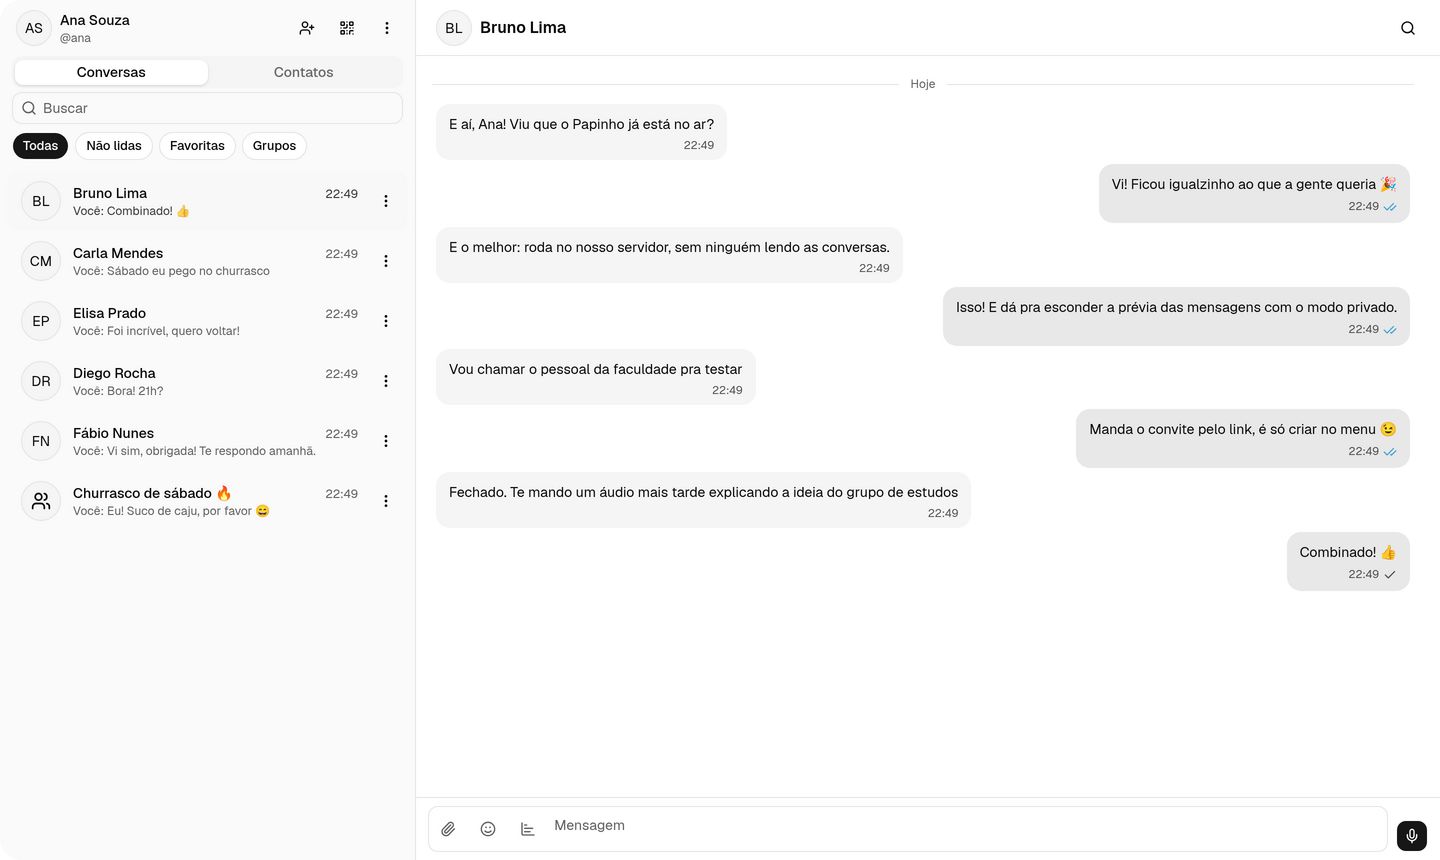
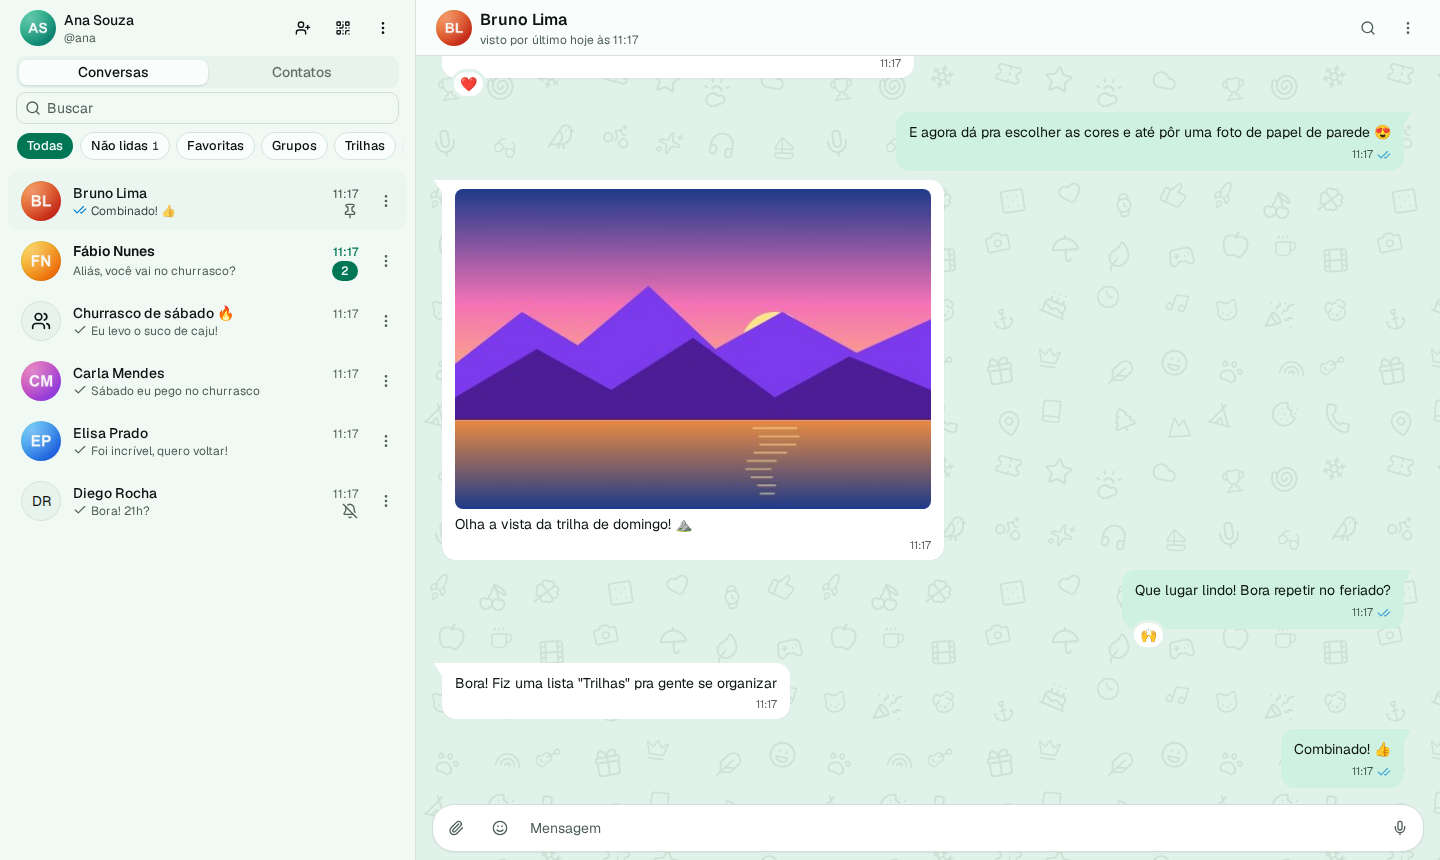
docs(readme): mostra o visual novo e as preferências de aparência
As capturas eram de antes das paletas, dos papéis de parede e da
conversa como a do WhatsApp. Todas foram refeitas de uma instância
local com pessoas fictícias (a imagem principal, as do computador e
as do celular), e entram três novas: a mesma conversa em quatro
paletas, a tela de Aparência e o menu de anexos.

O texto ganha os destaques "Com a cara do WhatsApp" e "Do seu jeito",
as listas criadas pela barra de filtros e a seção "Aparência,
digitação e atalhos", com a foto do papel de parede só no aparelho e
a tabela dos atalhos do WhatsApp Web.

diff --git a/README.md b/README.md
@@ -40,7 +40,9 @@
 | 🔒 **Privacidade aplicada no servidor** | Visto por último, online, foto, recado e confirmação de leitura com reciprocidade; ninguém burla pelo navegador. |
 | 🙈 **Modo privado e conversas trancadas** | Desfoque de mensagens, nomes e mídia (Alt+Shift+P), bloqueio de tela por PIN e conversas que só abrem com código. |
 | ⚡ **Tempo real e offline** | STOMP sobre WebSocket com sincronização por sequência; PWA instalável, conversas recentes offline e fila de envio. |
-| 👥 **Tudo de um mensageiro moderno** | Grupos com admins e convite por QR Code, transmissões, enquetes, figurinhas, temporárias, agendadas e visualização única. |
+| 💬 **Com a cara do WhatsApp** | Microfone dentro da caixa de texto, mensagem que voa até o lugar dela, reações, foto de quem fala no grupo, menu de anexos e os atalhos do WhatsApp Web. |
+| 🎨 **Do seu jeito** | Oito paletas de cor para o app inteiro, no claro e no escuro, e papel de parede com desenhos, cores, degradês ou uma foto sua (que não sai do aparelho). |
+| 👥 **Tudo de um mensageiro moderno** | Grupos com admins e convite por QR Code, transmissões, enquetes, figurinhas, temporárias, agendadas, visualização única e listas personalizadas. |
 | 🎙 **Áudio com transcrição** | Whisper no próprio navegador (o áudio não sai do aparelho) ou um provedor compatível com a API da OpenAI. |
 | 🔑 **Login sem senha** | Passkeys (WebAuthn), verificação em duas etapas (TOTP) com códigos de recuperação e sessão por cookie. |
 | 🔔 **Notificações push** | Web Push cifrado até o navegador, com opção de mostrar só "Nova mensagem". |
@@ -54,8 +56,15 @@
     <td width="50%"><img src="docs/images/desktop-dark.png" alt="Conversa no tema escuro"><p align="center"><sub>Tema escuro</sub></p></td>
   </tr>
   <tr>
+    <td width="50%"><img src="docs/images/grupo.png" alt="Conversa em grupo com a foto e o nome colorido de quem mandou e reações"><p align="center"><sub>Grupos: foto e nome de quem fala, reações</sub></p></td>
     <td width="50%"><img src="docs/images/modo-privado.png" alt="Modo privado desfocando mensagens e prévias"><p align="center"><sub>Modo privado: desfoca mensagens e prévias</sub></p></td>
-    <td width="50%"><img src="docs/images/grupo.png" alt="Conversa em grupo"><p align="center"><sub>Grupos</sub></p></td>
+  </tr>
+  <tr>
+    <td colspan="2"><img src="docs/images/temas.png" alt="A mesma conversa em quatro paletas e papéis de parede: Oceano, Lavanda, Coral e Rosa"><p align="center"><sub>Paletas de cor e papéis de parede, no claro e no escuro</sub></p></td>
+  </tr>
+  <tr>
+    <td width="50%"><img src="docs/images/aparencia.png" alt="Configurações de aparência com o tema, as cores do app e o papel de parede com prévia"><p align="center"><sub>Aparência: tema, cores do app e papel de parede</sub></p></td>
+    <td width="50%"><img src="docs/images/anexos.png" alt="Menu de anexos com documento, fotos e vídeos, câmera, áudio, enquete e figurinhas"><p align="center"><sub>Menu de anexos</sub></p></td>
   </tr>
 </table>
 
@@ -192,7 +201,8 @@ cada um). Em Configurações > Privacidade também ficam:
 
 Cada pessoa organiza a própria lista: arquivar (com "manter arquivadas ao receber nova mensagem"), fixar até 3,
 silenciar por 8 horas, 1 semana ou sempre (com a opção de ainda avisar menções), favoritar, listas personalizadas
-(em Configurações > Conversas), limpar e apagar conversa. A busca usa o PostgreSQL com `unaccent`, `pg_trgm` e a
+(pelo **+** da barra de filtros, por "Adicionar à lista" no menu da conversa ou em Configurações > Conversas), marcar
+todas como lidas, limpar e apagar conversa. Os filtros mostram quantas conversas têm mensagens não lidas. A busca usa o PostgreSQL com `unaccent`, `pg_trgm` e a
 configuração `portuguese` (as extensões são criadas pela migração; o usuário do banco precisa poder criá-las ou
 elas devem existir antes). Busca dentro da conversa por texto, remetente, dia e tipo.
 
@@ -207,6 +217,38 @@ desativar a conta cortam o push daquele aparelho.
 Segurança da conta: adicionar uma passkey ou ativar a verificação em duas etapas pede a senha digitada nos últimos
 5 minutos (o login por senha conta); assim, quem usar o aparelho destravado de alguém não deixa uma forma própria de
 entrar. Cada código do app autenticador vale uma vez só no login.
+
+### Aparência, digitação e atalhos
+
+Em Configurações > Aparência:
+
+- **Tema** claro, escuro ou do sistema.
+- **Cores do app**: oito paletas (Papinho, Oceano, Lavanda, Rosa, Coral, Âmbar, Água-marinha e Vinho) mudam a cor
+  de destaque, os fundos e a barra lateral; Grafite é o preto e branco. O contraste de texto e fundo fica em 4,5:1
+  ou mais em todas.
+- **Papel de parede**: desenhos como os do WhatsApp por cima da cor da conversa, 12 cores, 4 degradês, padrões ou
+  **uma foto sua**. A foto fica só neste navegador (redesenhada sem os dados de localização), nunca vai ao servidor
+  e é apagada ao sair da conta; dá para escurecê-la.
+- Tamanho da fonte e densidade.
+
+Em Configurações > Conversas, "Digitação e envio": enviar com Enter (no automático, só com teclado físico),
+verificação ortográfica, trocar `:)` por 🙂 ao digitar e som ao enviar mensagens. Essas escolhas valem para o
+aparelho.
+
+Os atalhos de teclado são os do WhatsApp Web (no Mac, ⌘ no lugar do Ctrl); `?` mostra a lista completa:
+
+| Atalho | Ação |
+|---|---|
+| Ctrl+K | Paleta de comandos |
+| Ctrl+Alt+/ | Buscar conversas e mensagens |
+| Ctrl+Shift+F | Buscar na conversa aberta |
+| Ctrl+Alt+N / Ctrl+Alt+Shift+N | Nova conversa / novo grupo |
+| Ctrl+Alt+Shift+] / [ | Próxima / conversa anterior |
+| Ctrl+Alt+Shift+U, E, P | Marcar como não lida, arquivar, fixar |
+| Ctrl+Alt+E | Painel de emojis |
+| Ctrl+Alt+P / Ctrl+Alt+, | Perfil / configurações |
+| Alt+Shift+P | Modo privado |
+| Esc | Fecha o que está aberto e, sem nada aberto, sai da conversa |
 
 ### App instalável e offline
 
